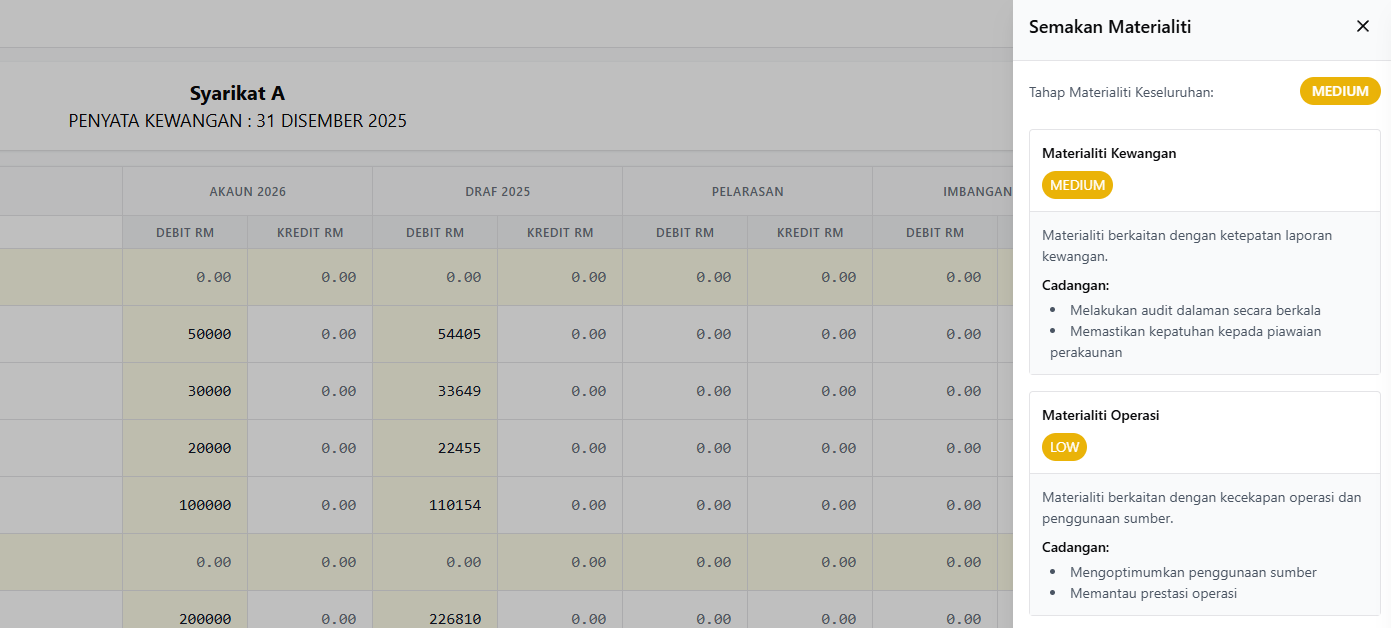
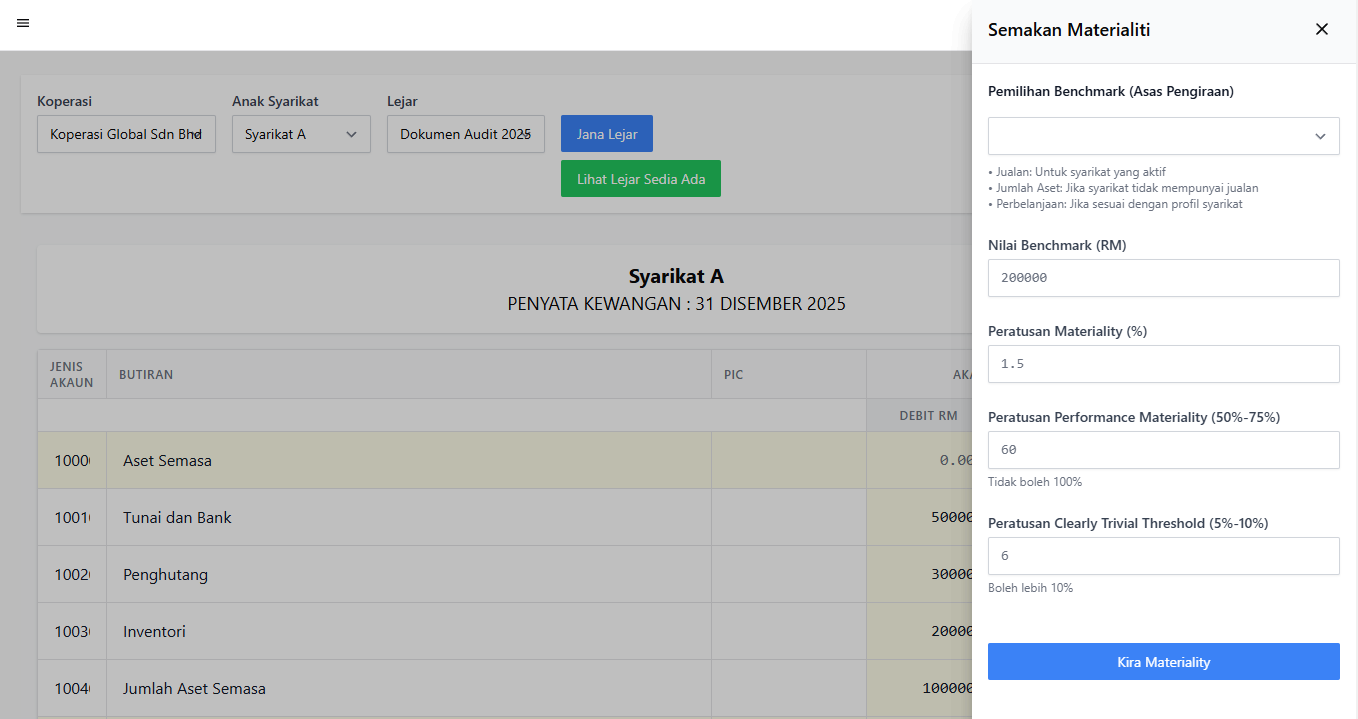
Updated manual for paparan lejar

diff --git a/paparan-lejar-koperasi.md b/paparan-lejar-koperasi.md
@@ -90,83 +90,92 @@ Setiap faktor ini akan dinilai secara berterusan dan tahap risiko akan dikemaski
 
 #### Risiko Pematuhan (Compliance Risk)
 - **Tahap**: SEDERHANA (MEDIUM) - PEMANTAUAN
-- **Petunjuk**: Perubahan peraturan terkini memerlukan perhatian
+- **Petunjuk**: Perubahan dalam peraturan terkini memerlukan perhatian
 - **Cadangan**:
   - Kemaskini dokumentasi pematuhan
   - Jadualkan mesyuarat semakan peraturan
 
-### 3. Semakan Materialiti AI (Materiality Check)
+### 3. Semakan Materialiti (Materiality Check)
 
-Sistem dilengkapi dengan ciri semakan materialiti AI yang boleh diakses melalui butang di sudut kanan atas. Semakan ini memberikan analisis komprehensif secara masa nyata berdasarkan data kewangan terkini. Tahap materialiti dan cadangan akan berubah secara dinamik mengikut perubahan dalam data kewangan koperasi.
+Sistem dilengkapi dengan ciri semakan materialiti yang boleh diakses melalui butang di sudut kanan atas. Semakan ini memberikan analisis komprehensif secara masa nyata berdasarkan data kewangan terkini.
 
 <img src="./image/paparan-lejar/image7.png" alt="Semakan Materialiti" width="800">
 
-> **Nota**: Paparan ini hanyalah contoh. Tahap materialiti dan cadangan akan berbeza mengikut data sebenar koperasi anda.
+#### Langkah-langkah Semakan Materialiti:
 
-#### Faktor-faktor Yang Mempengaruhi Semakan Materialiti
+1. Klik pada butang "Semakan Materialiti" di bahagian atas paparan lejar.
+2. Tetapkan parameter materialiti berikut:
 
-Sistem AI akan menilai materialiti berdasarkan beberapa faktor utama:
+   a. **Pemilihan Benchmark (Asas Pengiraan)**
+      - Pilih benchmark yang sesuai dari senarai dropdown
+      - Sistem akan memaparkan panduan:
+        - Jualan: Untuk syarikat yang aktif
+        - Jumlah Aset: Jika syarikat tidak mempunyai jualan
+        - Perbelanjaan: Jika sesuai dengan profil syarikat
 
+   b. **Nilai Benchmark (RM)**
+      - Masukkan nilai benchmark dalam Ringgit Malaysia (contoh: 200,000)
 
-1. **Materialiti Kewangan**
-   - Ambang kewangan yang ditetapkan
-   - Kesan terhadap penyata kewangan
-   - Trend pendapatan dan perbelanjaan
-   - Prestasi aset
+   c. **Peratusan Materialiti (%)**
+      - Masukkan peratusan materialiti (contoh: 1.5%)
 
-2. **Materialiti Operasi**
-   - Kesan operasi
-   - Kawalan dalaman
-   - Prosedur dokumentasi
-   - Prestasi kakitangan
+   d. **Peratusan Performance Materiality (50%-75%)**
+      - Masukkan nilai antara 50% hingga 75% (contoh: 60%)
+      - Nota: Tidak boleh melebihi 100%
 
-3. **Materialiti Pematuhan**
-   - Perubahan dalam peraturan
-   - Status dokumentasi
-   - Keperluan audit
-   - Pematuhan kepada garis panduan koperasi
+   e. **Peratusan Clearly Trivial Threshold (5%-10%)**
+      - Masukkan nilai antara 5% hingga 10% (contoh: 6%)
+      - Nota: Boleh melebihi 10% jika perlu
 
-Setiap faktor ini akan dinilai secara berterusan dan tahap materialiti akan dikemaskini secara automatik apabila:
-- Data kewangan baharu dimuat naik
-- Perubahan dalam trend kewangan dikesan
-- Pengemaskinian dalam dokumentasi pematuhan
-- Perubahan dalam metrik operasi
+3. Klik butang "Kira Materialiti" untuk menghasilkan pengiraan materialiti berdasarkan parameter yang ditetapkan.
 
-### 4. Persampelan Audit AI (Audit Sampling)
+> **Nota**: Pengiraan materialiti akan berbeza mengikut data sebenar koperasi anda dan parameter yang dipilih.
 
-Sistem dilengkapi dengan ciri persampelan audit AI yang boleh diakses melalui butang di sudut kanan atas. Persampelan ini memberikan analisis komprehensif secara masa nyata berdasarkan data kewangan terkini. Tahap risiko dan cadangan akan berubah secara dinamik mengikut perubahan dalam data kewangan koperasi.
+### 4. Persampelan Audit (Audit Sampling)
+
+Sistem dilengkapi dengan ciri persampelan audit yang boleh diakses melalui butang di sudut kanan atas. Persampelan ini membolehkan juruaudit memilih sampel transaksi untuk pemeriksaan audit secara sistematik.
 
 <img src="./image/paparan-lejar/image8.png" alt="Persampelan Audit" width="800">
+<img src="./image/paparan-lejar/image11.png" alt="Persampelan Audit" width="800">
 
-> **Nota**: Paparan ini hanyalah contoh. Tahap risiko dan cadangan akan berbeza mengikut data sebenar koperasi anda.
+#### Langkah-langkah Persampelan Audit:
 
-#### Faktor-faktor Yang Mempengaruhi Persampelan Audit
+1. Klik pada butang "Persampelan Audit" di bahagian atas paparan lejar.
+2. Tetapkan parameter persampelan berikut:
 
-Sistem AI akan menilai persampelan audit berdasarkan beberapa faktor utama:
+   a. **Takrifkan Populasi**
+      - Tentukan skop populasi yang akan diaudit
 
-1. **Risiko Kewangan**
-   - Nisbah hutang kepada ekuiti
-   - Metrik kecairan semasa
-   - Aliran tunai
-   - Prestasi aset
+   b. **Tempoh Masa**
+      - Pilih tarikh mula dan tarikh akhir untuk menentukan tempoh masa transaksi yang akan disampel
+      - Gunakan format dd/mm/yyyy untuk kedua-dua tarikh
 
-2. **Risiko Operasi**
-   - Kecekapan operasi
-   - Kawalan dalaman
-   - Prosedur dokumentasi
-   - Prestasi kakitangan
+   c. **Julat Nilai (RM)**
+      - Masukkan nilai minimum dan maksimum dalam Ringgit Malaysia untuk menapis transaksi berdasarkan nilai
 
-3. **Risiko Pematuhan**
-   - Perubahan dalam peraturan
-   - Status dokumentasi
-   - Keperluan audit
-   - Pematuhan kepada garis panduan koperasi
+   d. **Jenis Transaksi**
+      - Pilih jenis transaksi yang ingin disampel dari senarai dropdown
 
-Setiap faktor ini akan dinilai secara berterusan dan tahap risiko akan dikemaskini secara automatik apabila:
-- Data kewangan baharu dimuat naik
-- Perubahan dalam trend kewangan dikesan
-- Pengemaskinian dalam dokumentasi pematuhan
-- Perubahan dalam metrik operasi
+   e. **Kaedah Sampling**
+      - Pilih salah satu kaedah persampelan:
+        - **Random Sampling**: Pemilihan item secara rawak dari keseluruhan populasi
+        - **Systematic Sampling**: Pemilihan item pada selang tetap
+        - **Stratified Sampling**: Populasi dibahagikan kepada subkumpulan berdasarkan ciri-ciri tertentu
+
+   f. **Saiz Sampel**
+      - Pilih sama ada untuk menentukan saiz sampel secara manual atau automatik
+      - Jika manual, masukkan bilangan sampel yang dikehendaki
+      - Klik "Kira Saiz Sampel" untuk mengira saiz sampel yang optimum (jika diperlukan)
+
+   g. **Penemuan Audit**
+      - Masukkan nota penemuan audit dalam ruang yang disediakan
+
+   h. **Penilaian Materialiti**
+      - Pilih penilaian materialiti dari senarai dropdown
+
+3. Klik butang "Jana Sampel" untuk menghasilkan sampel berdasarkan parameter yang ditetapkan.
+
+> **Nota**: Hasil persampelan akan berbeza mengikut parameter yang dipilih dan data sebenar koperasi anda.
 
 ## Nota Penting
 
